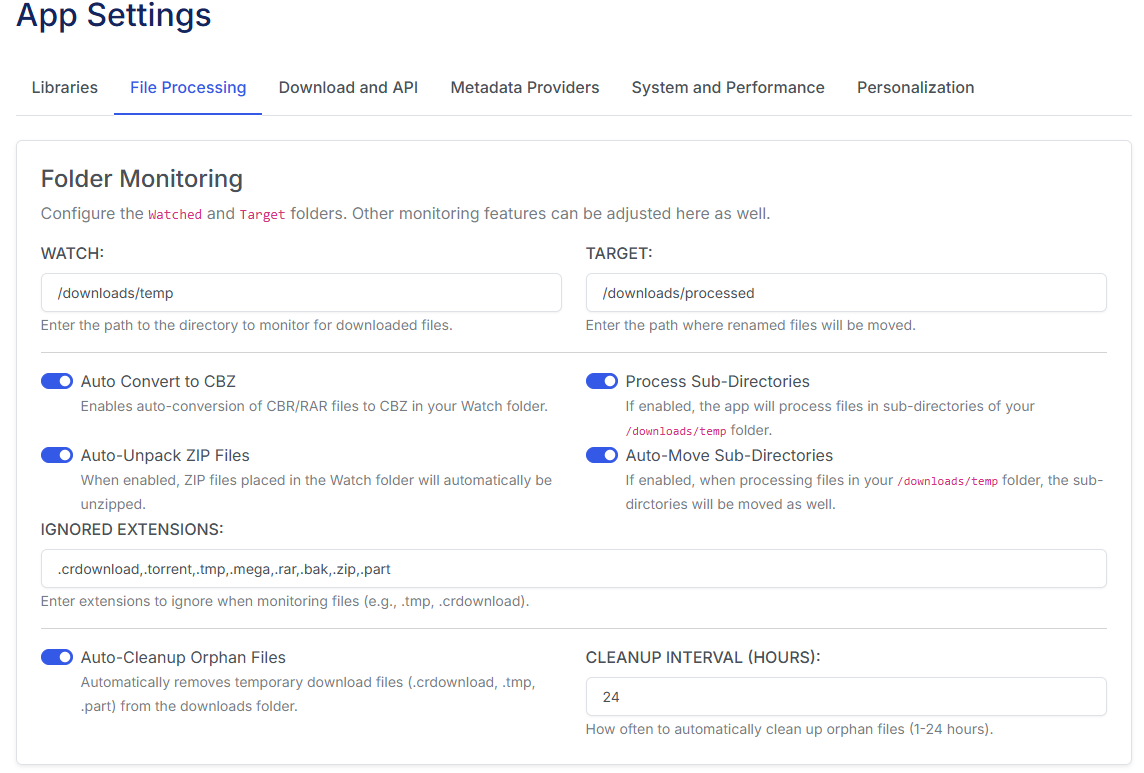
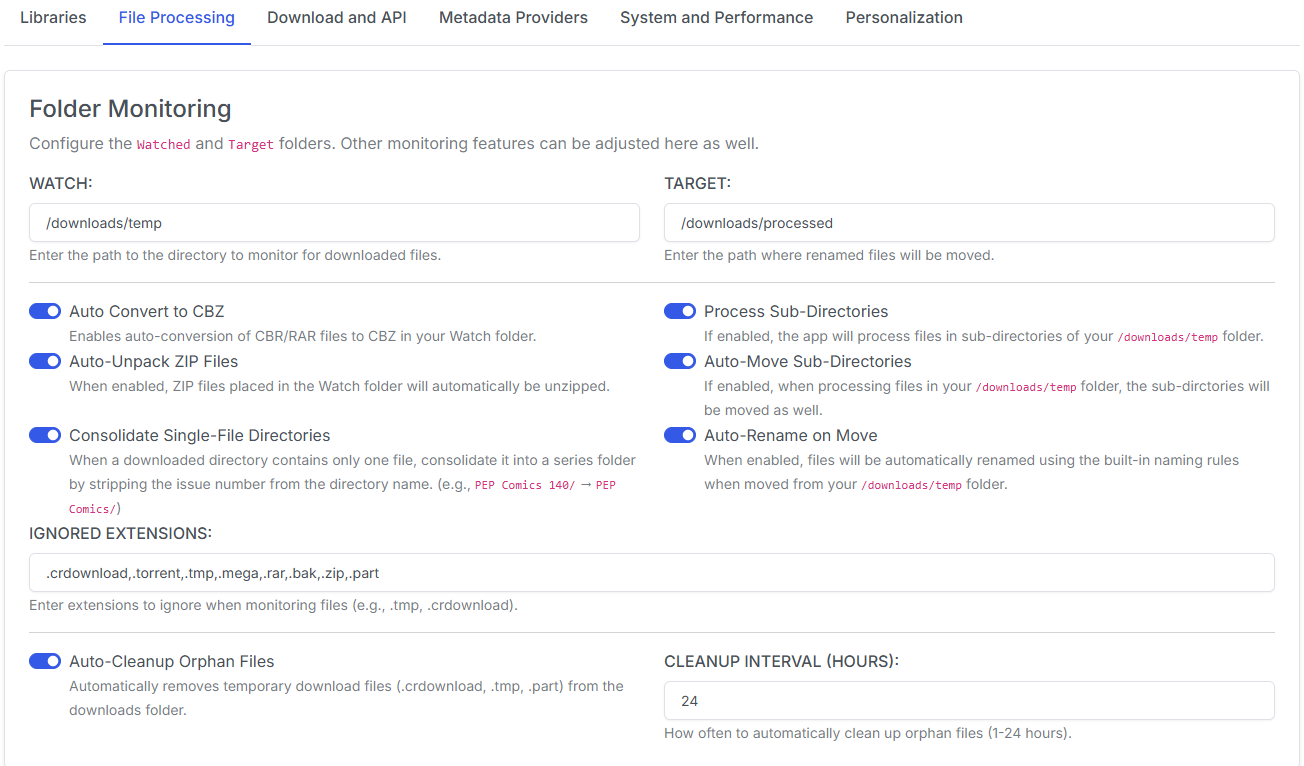
Updates for v4.9

diff --git a/docs/features/directory-features/update.md b/docs/features/directory-features/update.md
@@ -1,8 +1,12 @@
 ---
-description: Bulk Update Values in ComicInfo.xml
+description: Bulk Actions on ComicInfo.xml
 ---
 
-# Bulk Update ComicInfo.xml
+# Bulk Actions on ComicInfo.xml
+
+CLU let's you manage your ComicInfo.xml files in bulk with two supported actions: Update and Delete.
+
+## Bulk Update ComicInfo
 
 ![Bulk Update ComicInfo.xml](../../assets/directory/update.png){: .center-image }
 
@@ -14,3 +18,19 @@ There are currently 4 fields supported:
 - **Issue:** Update the Issue Number for all files in the directory
 - **Volume:** Update the Volume Number (Year) for all files in the directory
 - **Publisher:** Update the Publisher for all files in the directory
+
+## Bulk Delete ComicInfo
+
+This feature allows you to bulk delete the `ComicInfo.xml` for each _CBZ_ file in a directory or each selected file.
+
+### Library View
+
+![Action Bar - Remove XML](../../assets/directory/action-bar.png){: .center-image }
+
+From the Library view, you can CTRL+click or SHIFT+click to select multiple files. As soon as you have 2 or more files selected, you should see the _Bulk Actions Bar_. Simply click the "Remove XML" and the ComicInfo will be removed from each selected file.
+
+### File Browser
+
+![File Browser - Remove XML](../../assets/directory/context-menu.png){: .center-image }
+
+While using the File Browser, you'll see a new _Context Menu_ option on all folders. Clicking the "Remove All XML" menu option and CLU will remove the ComicInfo.xml from all files within that directory.

diff --git a/docs/features/collection/index.md b/docs/features/collection/index.md
@@ -44,6 +44,22 @@ This section will display issues that have been started but not completed. Click
 
 This feature takes your reading history and "Want to Read" list and uses it to generate personalized recommendations for you. Recommendations are manually triggerer, so you can manage how often they run and use them when you want to find something new to read. You'll need to enter an API in [Recommendations](../app-settings/personalization.md#recommendations) to use this feature.
 
+### On the Stack
+
+![On the Stack](../../assets/collection/stack.png){: .center-image}
+
+The *On the Stack* section will alert you to new issues for series that you are reading, to ensure you are always caught up.
+
+You have read `Absolute Batman 001` through `Absolute Batman 017` and are currently caught up.
+
+When `Absolute Batman 018` is available, it will be shown in "On the Stack", letting you know it's available for you to read.
+
+!!! Note
+
+    We should only show the next unread issue. So if you have `Absolute Batman 019` and `Absolute Batman 018` is still unread, we should only show `Absolute Batman 018`
+
+CLU will only show series in your [Pull List](../pull-list/pull-list.md) in this area. If you don't want certain series to show here, there's an option to remove them on the [Series page](../pull-list/series.md)
+
 ### Recently Added
 
 This section shows the last 100 issues added to your collection.

diff --git a/docs/features/pull-list/wanted.md b/docs/features/pull-list/wanted.md
@@ -4,6 +4,20 @@
 
 The wanted page will show you all missing and upcoming issues for the series you are subscribed to. We'll review the difference between missing and upcoming issues below.
 
+At the very top, you'll see 3 buttons that perform actions related to the *Wanted* issues.
+
+### Refresh
+
+Checks all series in your Pull List and refreshes your _Wanted_ and _Missing_ issues.
+
+### Scan Download Directory
+
+This will scan your download directory to check for any files that may have been placed there since the last scan. This same process is triggered when a file or file(s) are moved to your TARGET directory.
+
+### Check for Missing Issues
+
+This will manually run the job to check **GetComics** for any issues in your _Wanted_ list.
+
 ## Missing Issues
 
 Missing issues are issues that are missing from your collection that have a **Store Date** that is in the past.

diff --git a/docs/getting-started/navigate.md b/docs/getting-started/navigate.md
@@ -24,3 +24,14 @@ The [File Management](../features/file-management/index.md) page is available to
 ![Navigation](../assets/nav.png)
 
 Navigation in the header will let you access additional features like [Settings](../features/app-settings/index.md) and [File Downloads](../features/file-downloads/index.md).
+
+### Active Operations
+
+![Active Operations](../assets/active.png)
+
+Any long running operation will have progress and current status displayed in the header. Currently supporter opertions are:
+
+- Converting more than 10 CBR to CBZ
+- Converting a 1GB+ CBR to CBZ
+- Moving 10+ files to a new location
+- Apply ComicInfo to a Folder of files

diff --git a/docs/features/file-management/additional.md b/docs/features/file-management/additional.md
@@ -27,6 +27,12 @@ See the **File Index Management** section on [App Settings](../app-settings/file
 
 This searches you entire '/data' library, but ignores the 'TARGET' folder if you are using [folder-monitoring](../folder-monitoring/index.md)
 
+### Upload Files
+
+![Upload](../../assets/file/upload.png){: .center-image}
+
+You can drag and drop a single file or multiple files to upload them to the currently visible _Source_ or _Destination_ directory
+
 ### Recent Files
 
 Clicking the "Recent Files" button will show the last 100 files that have been added (or moved) withing you collection. This is useful for seeing new downloads.

diff --git a/docs/features/pull-list/series.md b/docs/features/pull-list/series.md
@@ -51,7 +51,11 @@ For existing subscriptions, you will see the following options:
 
 ### Refresh
 
-<i class="bi bi-arrow-clockwise text-success"> Refresh</i> will scan the mapped directory to check for existing/missing issues. .   
+<i class="bi bi-arrow-clockwise text-success"> Refresh</i> will scan the mapped directory to check for existing/missing issues.
+
+### On the Stack
+
+If this is enabled and you have [*On the Stack*](../collection/index.md#on-the-stack) configured to show on your Library page, this will show the next issue you haven't read in that section. 
 
 ## Wanted / Skipped / Owned
 

diff --git a/docs/features/app-settings/file-settings.md b/docs/features/app-settings/file-settings.md
@@ -40,6 +40,9 @@ Will all be place in a single directory:
 ```
 /PEP Comics/
 ```
+
+**Auto Rename on Move:** When enabled, files will be renamed using the default name cleansing patterns and your _Custom Name Pattern_ (if enabled) when files are moved from your WATCH to TARGET folder. This setting is enabeld by default. 
+
 **Auto Cleanup Orphan Files:** If you are using the monitoring and [Chrome Extension](../../features/file-downloads/setup.md) for downloads, failed downloads will be removed at regular intervals.
 
 **Cleanup Interval (hours):** Set the timing for removing orphaned files.

diff --git a/docs/features/app-settings/personalization.md b/docs/features/app-settings/personalization.md
@@ -26,6 +26,9 @@ Use the up <i class="bi bi-arrow-up"></i> and down <i class="bi bi-arrow-down"><
 
 Check and uncheck sections you want to display on your homepage.
 
+!!! Note
+    For an explanation of each section, visit the [Collection](../collection/index.md#sections) page
+
 ## Recommendations
 
 ![Recommendations](../../assets/settings/recommendations.png){: .center-image}
